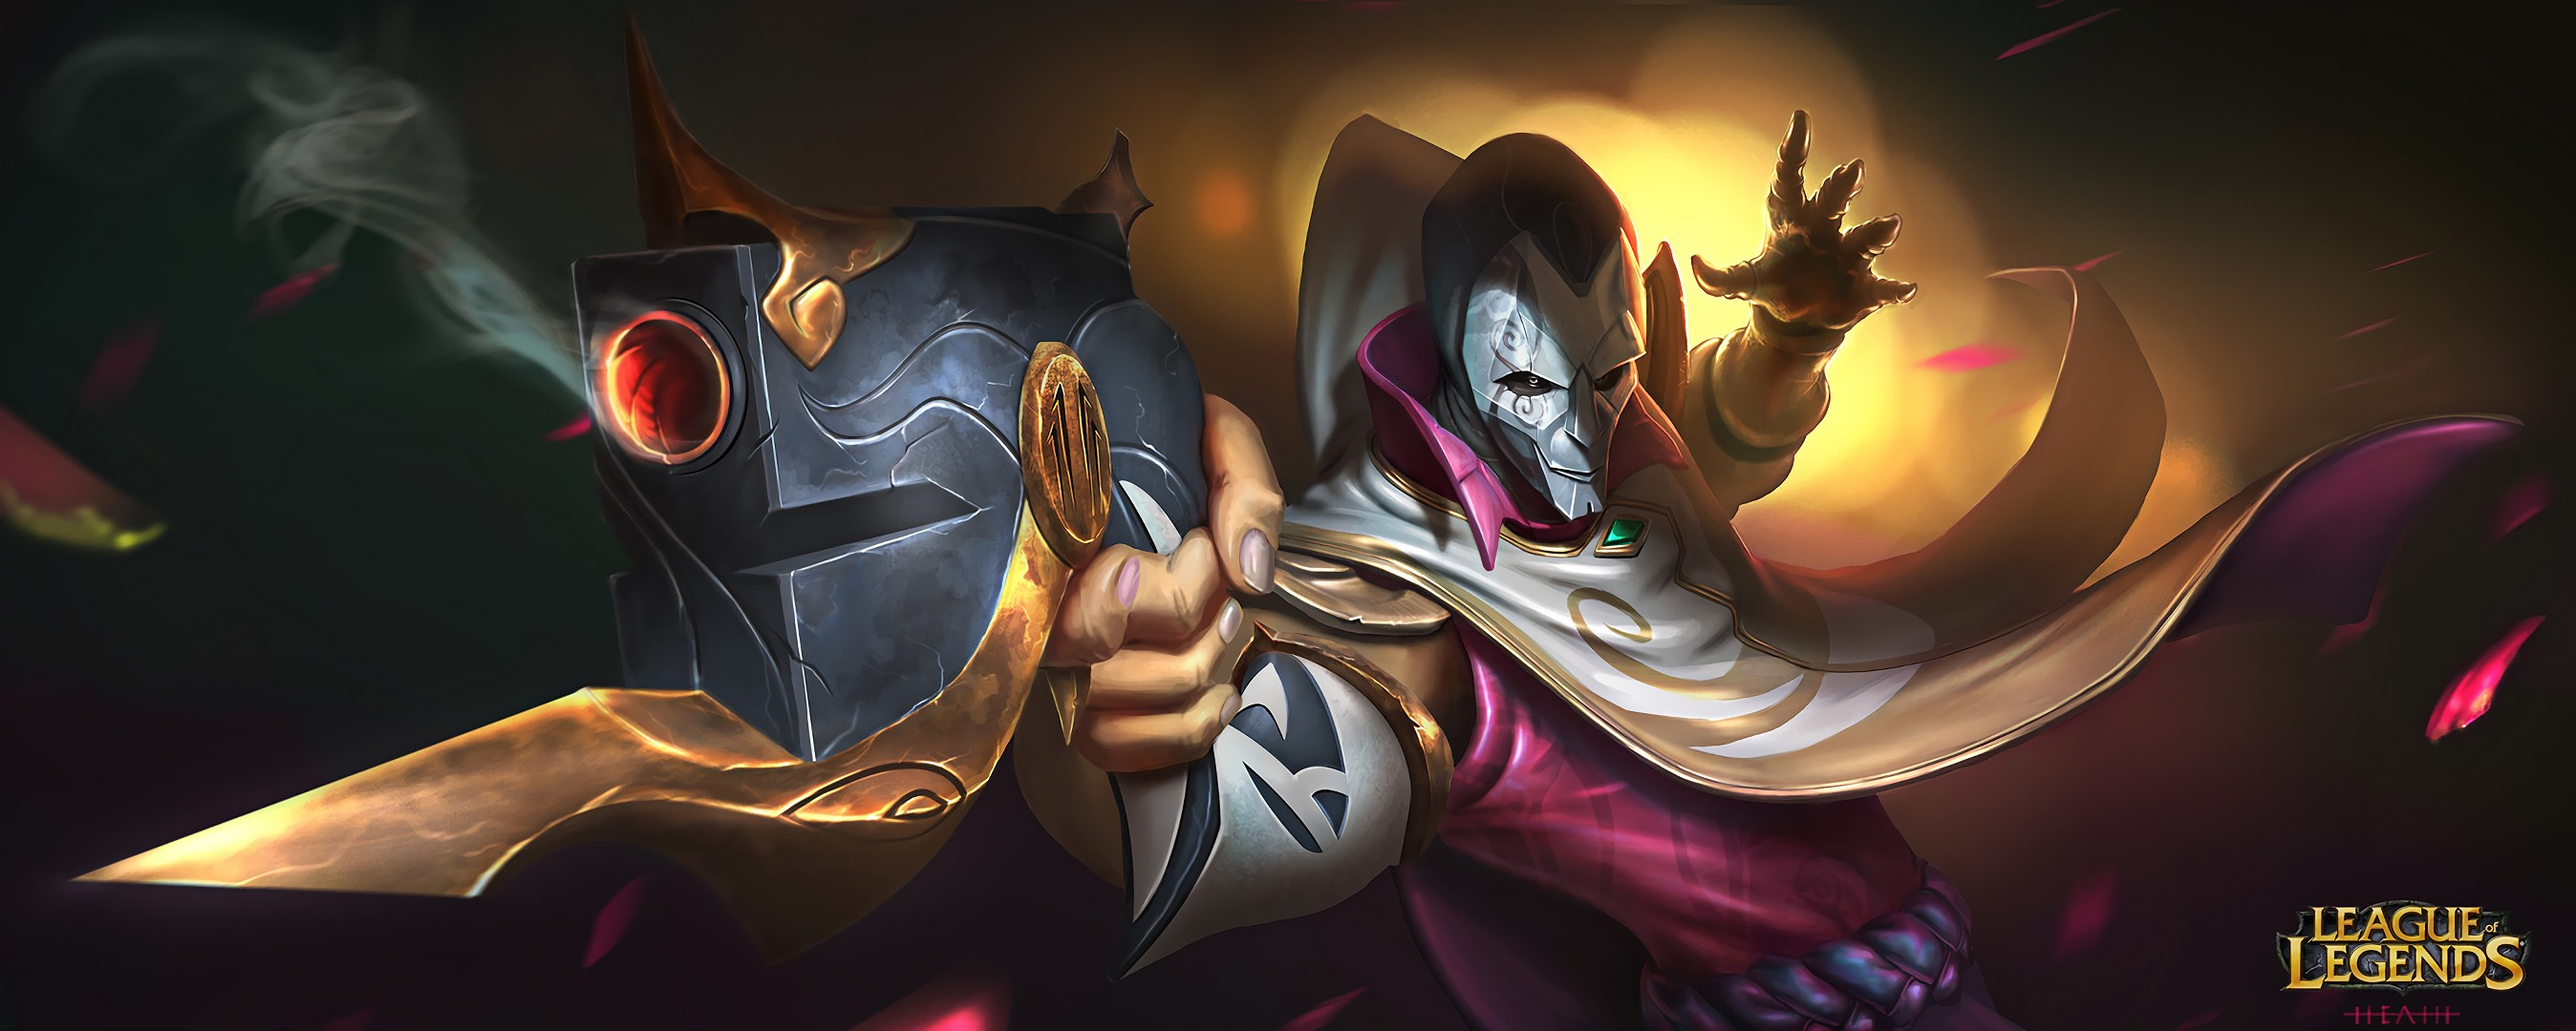
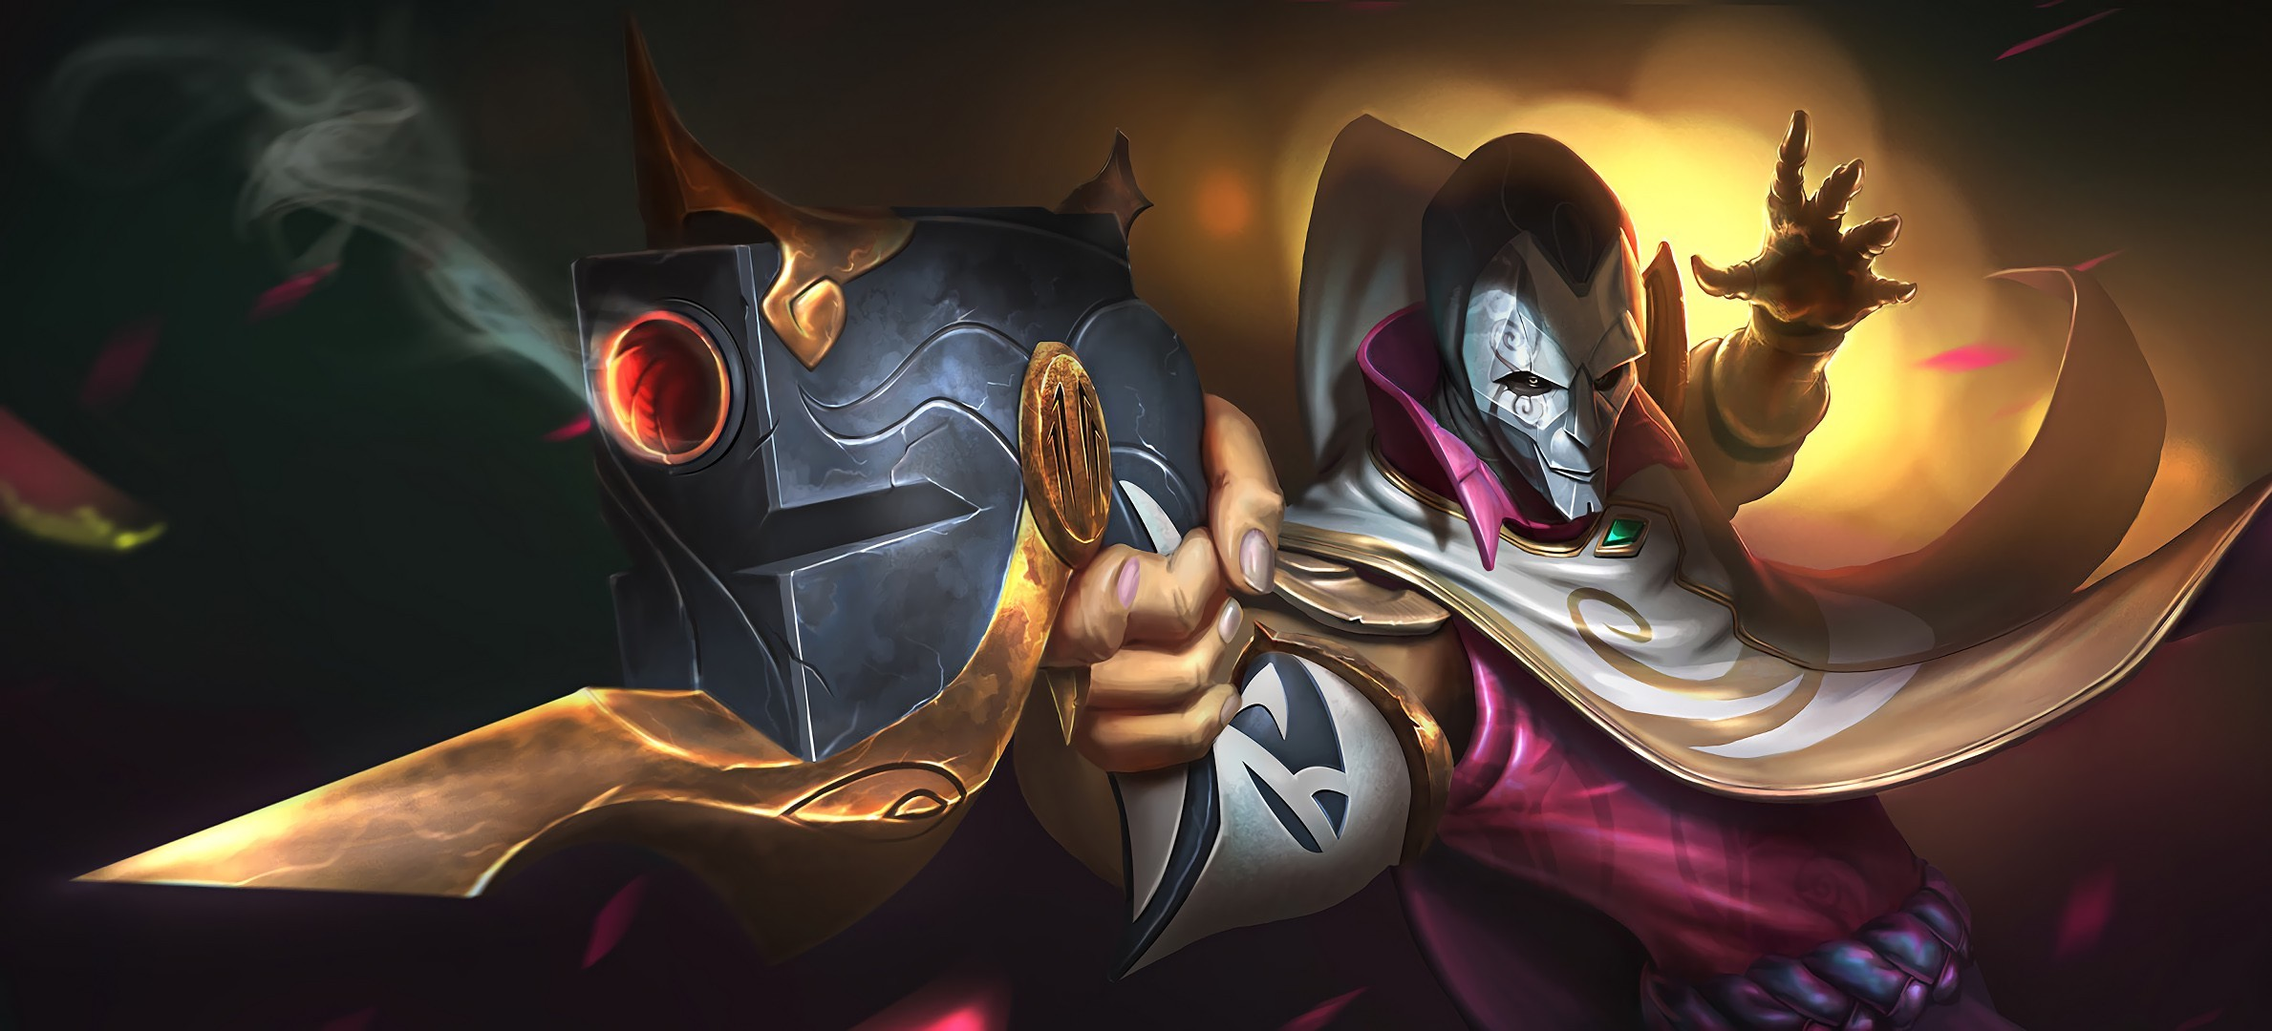
add ad

diff --git a/frontend/src/components/googleAd/GoogleAd.jsx b/frontend/src/components/googleAd/GoogleAd.jsx
@@ -1,0 +1,28 @@
+import React, { useEffect } from 'react';
+
+const AdComponent = () => {
+  useEffect(() => {
+    const script = document.createElement('script');
+    script.src = 'https://securepubads.g.doubleclick.net/tag/js/gpt.js';
+    script.async = true;
+    document.body.appendChild(script);
+
+    window.googletag = window.googletag || { cmd: [] };
+    googletag?.cmd?.push(() => {
+      // Define an ad slot for div with id "banner-ad".
+      googletag
+        ?.defineSlot("/6355419/Travel/Europe/France/Paris", [300, 250], "banner-ad")
+        ?.addService(googletag?.pubads());
+
+      // Enable the PubAdsService.
+      googletag?.enableServices();
+
+      // Request and render an ad for the "banner-ad" slot.
+      googletag?.display("banner-ad");
+    });
+  }, []);
+
+  return <div id="banner-ad" style={{marginTop:'5px' }}></div>;
+};
+
+export default AdComponent;

diff --git a/frontend/src/index.css b/frontend/src/index.css
@@ -3,9 +3,9 @@
 @tailwind utilities;
 
 body{
-  /* background: linear-gradient(rgba(169, 106, 18, 0.2),rgba(219, 57, 57, 0.2)),url("/jhin.jpg"); */
+  background: linear-gradient(rgba(169, 106, 18, 0.3),rgba(219, 57, 57, 0.3)),url("/jhin.jpg");
   /* background: url("/frontend/public/jhin.jpg"); */
-  background: linear-gradient(rgba(7, 101, 35, 0.2),rgba(57, 152, 219, 0.2)),url("/background.png");
+  /* background: linear-gradient(rgba(177, 152, 117, 0.1),rgba(220, 187, 151, 0.1)),url("/jhin.jpg"); */
   /* background: linear-gradient(rgba(169, 106, 18, 0.2),rgba(219, 57, 57, 0.2)),url("/background2.jpeg"); */
 
   background-repeat: no-repeat;

diff --git a/frontend/src/components/Sidebar/SearchInput.jsx b/frontend/src/components/Sidebar/SearchInput.jsx
@@ -1,12 +1,13 @@
-import React ,{useState} from 'react'
+import React ,{ useState} from 'react'
 import { FaSearch } from 'react-icons/fa';
 import useConversation from '../../zustand/useConversation';
 import useGetConversations from '../../hooks/useGetConversations';
 import toast from 'react-hot-toast';
 const SearchInput = () => {
+  
   const [search, setSearch] = useState('');
   const {setSelectedConversation} = useConversation();
-  const {conversations} = useGetConversations()
+  const {conversations} = useGetConversations();
   const handleSubmit = (e) => {
     e.preventDefault();
     if(!search) return;

diff --git a/frontend/src/components/Sidebar/Sidebar.jsx b/frontend/src/components/Sidebar/Sidebar.jsx
@@ -3,12 +3,14 @@ import SearchInput from './SearchInput'
 import Conversations from './Conversations'
 import LogoutButton from './LogoutButton'
 import useWindowSize from '../../hooks/useWindowSize'
-import useConversation from '../../zustand/useConversation'
+import useConversation from '../../zustand/useConversation';
+import AdComponent from '../googleAd/GoogleAd';
 const Sidebar = () => {
   const {sideNum} = useConversation();
   const {width} = useWindowSize();
   const searchInputComponent = useMemo(() => <>
     <SearchInput/> 
+    <AdComponent/>
     <div className='divider px-3'></div>
   </>
   , []);

diff --git a/frontend/index.html b/frontend/index.html
@@ -5,6 +5,8 @@
     <link rel="icon" type="image/svg+xml" href="/jhinl.svg" />
     <meta name="viewport" content="width=device-width, initial-scale=1.0" />
     <title>Moaz Tello ChatApp</title>
+    <!-- <script async src="https://securepubads.g.doubleclick.net/tag/js/gpt.js"></script> -->
+
     <!-- <script async src="https://securepubads.g.doubleclick.net/tag/js/gpt.js"></script>
     <script>
       window.googletag = window.googletag || { cmd: [] };
